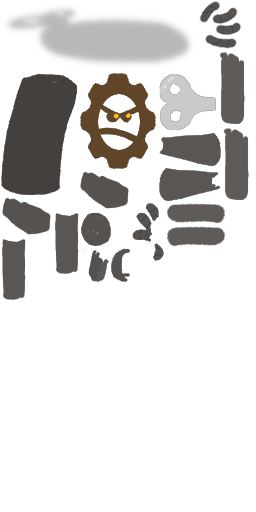
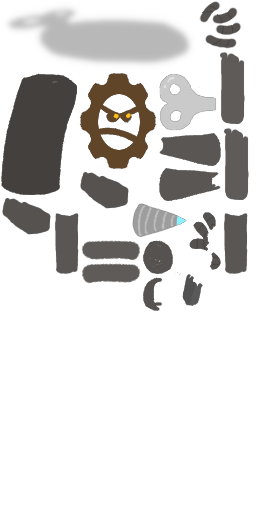
starter relic replacement

Changed region(s): [[0.3125, 0.375, 0.9688, 0.625], [0.0, 0.4688, 0.125, 0.5938], [0.7188, 0.5312, 0.7812, 0.5938]]

diff --git a/src/main/java/clockworkchar/relics/Drill.java b/src/main/java/clockworkchar/relics/Drill.java
@@ -1,0 +1,50 @@
+package clockworkchar.relics;
+
+import clockworkchar.actions.WindUpAction;
+import clockworkchar.characters.TheClockwork;
+import clockworkchar.patches.HandPatches;
+import com.megacrit.cardcrawl.cards.AbstractCard;
+import com.megacrit.cardcrawl.dungeons.AbstractDungeon;
+import com.megacrit.cardcrawl.monsters.AbstractMonster;
+import org.apache.commons.lang3.StringUtils;
+
+import static clockworkchar.ClockworkChar.makeID;
+import static clockworkchar.util.Wiz.atb;
+
+
+public class Drill extends AbstractEasyRelic {
+    public static final String ID = makeID("Drill");
+
+    private static final int WIND_AMOUNT = 1;
+
+    public Drill() {
+        super(ID, RelicTier.BOSS, LandingSound.CLINK, TheClockwork.Enums.CLOCKWORK_BROWN_COLOR);
+    }
+
+    public String getUpdatedDescription() {
+        return this.DESCRIPTIONS[0] + WIND_AMOUNT + this.DESCRIPTIONS[1];
+    }
+
+    public void onPlayCard(AbstractCard c, AbstractMonster m) {
+        flash();
+        atb(new WindUpAction(WIND_AMOUNT, false));
+    }
+    
+    public void obtain() {
+        if (AbstractDungeon.player.hasRelic(LeftHand.ID)) {
+            for (int i = 0; i < AbstractDungeon.player.relics.size(); ++i) {
+                if (StringUtils.equals(AbstractDungeon.player.relics.get(i).relicId, LeftHand.ID)) {
+                    instantObtain(AbstractDungeon.player, i, true);
+                    HandPatches.switchHand();
+                    break;
+                }
+            }
+        } else {
+            super.obtain();
+        }
+    }
+  
+    public boolean canSpawn() {
+      return AbstractDungeon.player.hasRelic(LeftHand.ID);
+    }
+}

diff --git a/src/main/java/clockworkchar/patches/HandPatches.java b/src/main/java/clockworkchar/patches/HandPatches.java
@@ -1,0 +1,33 @@
+package clockworkchar.patches;
+
+import clockworkchar.characters.TheClockwork;
+import clockworkchar.relics.Drill;
+import clockworkchar.relics.LeftHand;
+import com.evacipated.cardcrawl.modthespire.lib.SpirePatch;
+import com.megacrit.cardcrawl.characters.AbstractPlayer;
+import com.megacrit.cardcrawl.core.CardCrawlGame;
+import com.megacrit.cardcrawl.dungeons.AbstractDungeon;
+
+public class HandPatches {
+    public static void switchHand() {
+        if (AbstractDungeon.player instanceof TheClockwork) {
+            if (!AbstractDungeon.player.hasRelic(LeftHand.ID))
+                ((TheClockwork)AbstractDungeon.player).handBone.setScale(0.0F);
+            ((TheClockwork)AbstractDungeon.player).drillBone.setScale(AbstractDungeon.player.hasRelic(Drill.ID) ? 1.0F : 0.0F);
+        } 
+    }
+
+    @SpirePatch(clz=AbstractPlayer.class, method="loseRelic")
+    public static class RelicLossPatch {
+        public static void Postfix() {
+            switchHand();
+        }
+    }
+
+    @SpirePatch(clz=CardCrawlGame.class, method="loadPlayerSave")
+    public static class LoadPatch {
+        public static void Postfix() {
+            switchHand();
+        }
+    }
+}

diff --git a/src/main/java/clockworkchar/characters/TheClockwork.java b/src/main/java/clockworkchar/characters/TheClockwork.java
@@ -53,6 +53,8 @@ public class TheClockwork extends CustomPlayer {
     static final String[] TEXT = characterStrings.TEXT;
     
     public Bone winderBone;
+    public Bone handBone;
+    public Bone drillBone;
 
     public TheClockwork(String name, PlayerClass setClass) {
         super(name, setClass, new CustomEnergyOrb(orbTextures, modID + "Resources/images/char/mainChar/orb/vfx.png", (new float[]{0.0F, 0.0F, 32.0F, 0.0F, 0.0F})), new SpineAnimation(modID + "Resources/images/char/mainChar/cranky.atlas", modID + "Resources/images/char/mainChar/cranky.json", SIZE_SCALE));
@@ -62,7 +64,10 @@ public class TheClockwork extends CustomPlayer {
                 CORPSE,
                 getLoadout(), -5.0F, -10.0F, 172.0F, 268.0F, new EnergyManager(3));
         
-        winderBone = this.skeleton.findSlot("winder").getBone();
+        winderBone = this.skeleton.findBone("winder");
+        handBone = this.skeleton.findBone("hand");
+        drillBone = this.skeleton.findBone("drill");
+        drillBone.setScale(0.0F);
 
 
         dialogX = (drawX + 0.0F * Settings.scale);

diff --git a/src/main/java/clockworkchar/actions/WindUpAction.java b/src/main/java/clockworkchar/actions/WindUpAction.java
@@ -8,12 +8,20 @@ import com.megacrit.cardcrawl.dungeons.AbstractDungeon;
 import static clockworkchar.ClockworkChar.makeID;
 
 public class WindUpAction extends AbstractGameAction {
+    private boolean sound;
+
     public WindUpAction(int amount) {
+        this(amount, true);
+    }
+
+    public WindUpAction(int amount, boolean playSound) {
         this.amount = amount;
+        sound = playSound;
     }
 
     public void update() {
-        CardCrawlGame.sound.play(makeID("WIND_UP"));
+        if (sound)
+            CardCrawlGame.sound.play(makeID("WIND_UP"));
         ClockworkChar.winder.gainCharge(amount);
         isDone = true;
     }

diff --git a/src/main/java/clockworkchar/relics/LeftHand.java b/src/main/java/clockworkchar/relics/LeftHand.java
@@ -15,7 +15,7 @@ public class LeftHand extends AbstractEasyRelic {
     private static final int WIND_AMOUNT = 8;
 
     public LeftHand() {
-        super(ID, RelicTier.STARTER, LandingSound.FLAT, TheClockwork.Enums.CLOCKWORK_BROWN_COLOR);
+        super(ID, RelicTier.STARTER, LandingSound.HEAVY, TheClockwork.Enums.CLOCKWORK_BROWN_COLOR);
     }
 
     public String getUpdatedDescription() {

diff --git a/src/main/java/clockworkchar/actions/SpinAction.java b/src/main/java/clockworkchar/actions/SpinAction.java
@@ -9,8 +9,8 @@ import static clockworkchar.ClockworkChar.makeID;
 import java.util.function.Consumer;
 
 public class SpinAction extends AbstractGameAction {
-    boolean sound;
-    Consumer<Boolean> cb;
+    private boolean sound;
+    private Consumer<Boolean> cb;
 
     public SpinAction(int amount, Consumer<Boolean> callback) {
         this(amount, true, callback);
